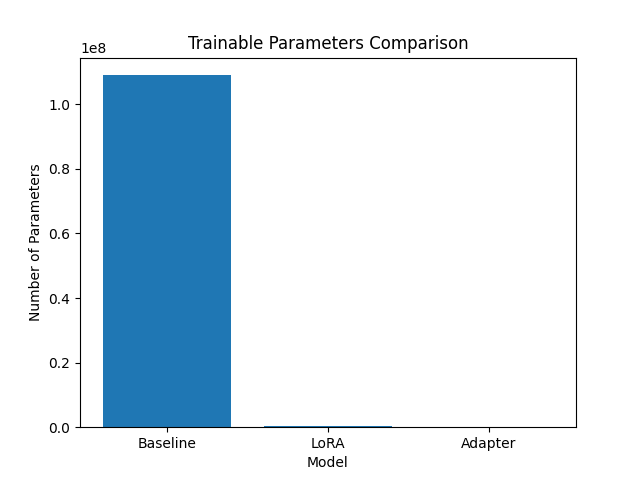
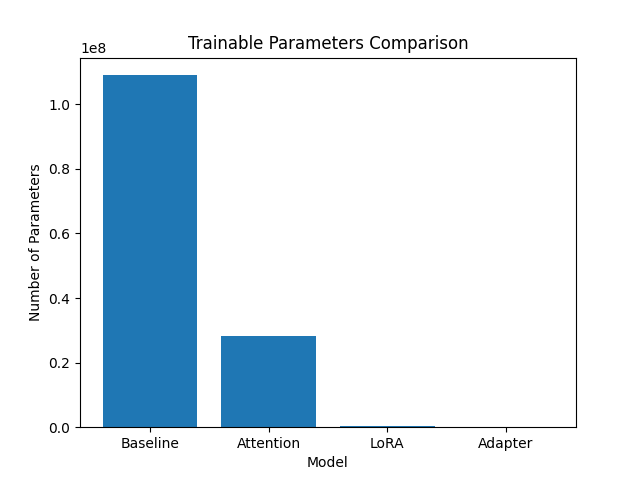
attention layer only

diff --git a/src/train_attention.py b/src/train_attention.py
@@ -1,0 +1,106 @@
+import time
+from datasets import load_from_disk
+from transformers import (
+    AutoModelForQuestionAnswering,
+    TrainingArguments,
+    Trainer,
+    DefaultDataCollator,
+)
+
+MODEL_NAME = "bert-base-uncased"
+DATA_PATH = "data/processed"
+MODEL_SAVE_PATH = "models/attention"
+
+BATCH_SIZE = 16
+EPOCHS = 1
+LEARNING_RATE = 3e-5
+
+
+# loading preprocessed datasets from disk
+def load_data():
+    train = load_from_disk(f"{DATA_PATH}/train")
+    val = load_from_disk(f"{DATA_PATH}/validation")
+    return train, val
+
+
+# loading model and freezing all layers except attention
+def load_model():
+    model = AutoModelForQuestionAnswering.from_pretrained(MODEL_NAME)
+
+    #  Freeze all parameters
+    for param in model.parameters():
+        param.requires_grad = False
+
+    #  Unfreeze only attention layers
+    for name, param in model.named_parameters():
+        if "attention" in name:
+            param.requires_grad = True
+
+    #  Print trainable parameters
+    trainable = sum(p.numel() for p in model.parameters() if p.requires_grad)
+    total = sum(p.numel() for p in model.parameters())
+
+    print(f"Trainable params: {trainable}")
+    print(f"Total params: {total}")
+    print(f"% Trainable: {100 * trainable / total:.4f}")
+
+    return model
+
+
+# metrics
+def compute_metrics(eval_pred):
+    predictions, labels = eval_pred
+    start_preds, end_preds = predictions
+    start_labels, end_labels = labels
+
+    correct = 0
+    total = len(start_preds)
+
+    for i in range(total):
+        if start_preds[i].argmax() == start_labels[i] and end_preds[i].argmax() == end_labels[i]:
+            correct += 1
+
+    return {"accuracy": correct / total}
+
+
+# training function
+def train():
+    train_data, val_data = load_data()
+
+    print(" Loading model (Attention Only)...")
+    model = load_model()
+
+    training_args = TrainingArguments(
+        output_dir=MODEL_SAVE_PATH,
+        per_device_train_batch_size=BATCH_SIZE,
+        per_device_eval_batch_size=BATCH_SIZE,
+        num_train_epochs=EPOCHS,
+        learning_rate=LEARNING_RATE,
+        eval_strategy="epoch",
+        save_strategy="epoch",
+        logging_steps=20,
+        report_to="none"
+    )
+
+    trainer = Trainer(
+        model=model,
+        args=training_args,
+        train_dataset=train_data,
+        eval_dataset=val_data,
+        data_collator=DefaultDataCollator(),
+        compute_metrics=compute_metrics,
+    )
+
+    print(" Training Attention-Only Model...")
+
+    start = time.time()
+    trainer.train()
+    end = time.time()
+
+    print(f"Training Time: {end - start:.2f} seconds")
+
+    model.save_pretrained(MODEL_SAVE_PATH)
+
+
+if __name__ == "__main__":
+    train()

diff --git a/results/plot_results.py b/results/plot_results.py
@@ -1,9 +1,10 @@
 import matplotlib.pyplot as plt
 
-models = ["Baseline", "LoRA", "Adapter"]
+models = ["Baseline", "Attention", "LoRA", "Adapter"]
 
-training_time = [5124.92, 2174.67, 2245.16]  # seconds
-trainable_params = [109000000, 294912, 18432]
+training_time = [5124.92, 2068.53, 2174.67, 2245.16] # seconds
+
+trainable_params = [109000000, 28366848, 294912, 18432]
 
 plt.figure()
 plt.bar(models, training_time)
